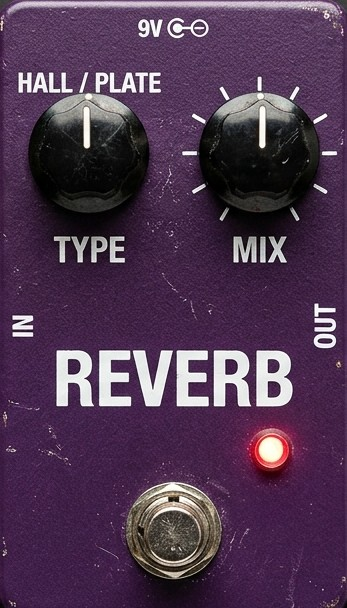
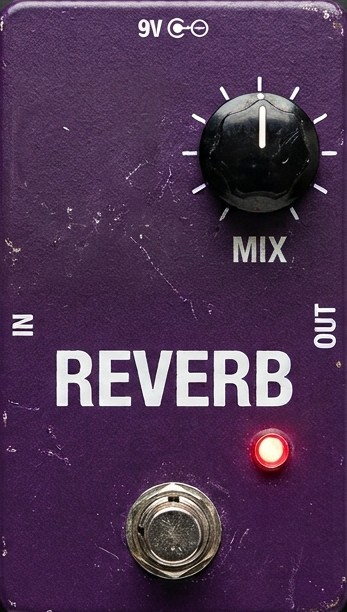
Photo skins: room for values + sliders; reverb without the Type knob
- Reverb image re-generated (Gemini edit): Type knob and HALL/PLATE print removed, blank
  band between MIX and REVERB; mirrored "IN" fixed again in post. Type select now sits in
  the blank upper-left, Mix value + slider in the band.
- DS-1 image re-generated from a to-scale layout sketch: taller knob section with a blank
  band under the labels; values + sliders placed there in knob columns.
- Sliders are visible again on photo skins (knobs still turn by dragging too).

Claude-Session: https://claude.ai/code/session_01CWvZQgQQYmGZwEkUDMEGhG

diff --git a/style.css b/style.css
@@ -1573,7 +1573,7 @@ input[type="range"]:focus-visible { outline: 2px solid var(--brass); outline-off
 .photo-skin .knob-row > * { position: absolute; z-index: 2; }
 /* Knobs: the photo's own knob, cut from the skin image (centre --kx/--ky in px, diameter
    --kd) and rotated by the value, so the printed pointer is the live one. Turned by dragging
-   (buildParamRow); the range input stays for keyboard use but is visually hidden. */
+   (buildParamRow) or with the slider, which sits in a blank band the photo leaves for it. */
 .photo-skin .knob-dial-wrap {
   left: var(--kx); top: var(--ky); width: var(--kd); height: var(--kd); zoom: 1;
   transform: translate(-50%, -50%); cursor: ns-resize; touch-action: none;
@@ -1585,8 +1585,7 @@ input[type="range"]:focus-visible { outline: 2px solid var(--brass); outline-off
 }
 .pedal-stompbox.photo-skin .knob-dial::after,
 .photo-skin .knob-pointer { display: none; }
-.photo-skin .knob-row > input[type="range"] { left: 0; top: 0; width: 1px; height: 1px; opacity: 0; pointer-events: none; }
-.photo-skin .knob-row:has(> input:focus-visible) .knob-dial { outline: 2px solid var(--brass); outline-offset: 2px; }
+.photo-skin .knob-row > input[type="range"] { transform: translateY(-50%); margin: 0; }
 .photo-skin .knob-row > label { width: auto; transform: translateX(-50%); font-size: 0; }
 .photo-skin .knob-row .knob-value { font-size: 11px; }
 .photo-skin .pedal-select { padding: 1px 3px; font-size: 10px; font-weight: 700; text-transform: uppercase; }
@@ -1617,31 +1616,33 @@ input[type="range"]:focus-visible { outline: 2px solid var(--brass); outline-off
   box-shadow: inset 0 1px 2px rgba(0, 0, 0, 0.7);
 }
 
-/* Reverb (img/reverb.jpg, 347x608): Type covers the printed "HALL / PLATE" (the app has 4 types) */
+/* Reverb (img/reverb.jpg, 347x612): Type select sits in the blank upper-left; Mix value and
+   slider in the blank band between the MIX print and REVERB. */
 .photo-skin[data-pedal-type="reverb"] {
-  --fs-x: calc(49.9% - 28px); --fs-y: calc(87.2% - 28px); --fs-w: 56px; --fs-h: 56px;
-  --led-x: 77.5%; --led-y: 73.8%; --led-d: 20px;
+  --fs-x: calc(50.1% - 28px); --fs-y: calc(86.6% - 28px); --fs-w: 56px; --fs-h: 56px;
+  --led-x: 77.5%; --led-y: 73.5%; --led-d: 20px;
 }
 .photo-skin[data-pedal-type="reverb"] .pedal-select {
-  left: 4%; top: 11.4%; width: 44%;
+  left: 7%; top: calc(24% - 9px); width: 41%;
   background: oklch(16% 0.04 310); color: oklch(96% 0.01 310); border: 1px solid oklch(8% 0.02 310);
 }
-.photo-skin[data-pedal-type="reverb"] .knob-row { --kx: 148.8px; --ky: 88.3px; --kd: 60px; }
-.photo-skin[data-pedal-type="reverb"] .knob-row > label { left: 74.6%; top: 44%; }
+.photo-skin[data-pedal-type="reverb"] .knob-row { --kx: 149.3px; --ky: 84.7px; --kd: 60px; }
+.photo-skin[data-pedal-type="reverb"] .knob-row > label { left: 74.6%; top: 44.5%; }
+.photo-skin[data-pedal-type="reverb"] input[type="range"] { left: 56%; top: 50.5%; width: 34%; }
 
-/* DS-1 (img/ds1.webp, 400x718): params are Dist, Tone, Level (rows 1-3). Bypass is the whole
-   rubber treadle, as on the real Boss compact enclosure. */
+/* DS-1 (img/ds1.webp, 400x935): params are Dist, Tone, Level (rows 1-3). Values and sliders
+   in the blank band under the knob labels. Bypass is the whole rubber treadle, as on the
+   real Boss compact enclosure. */
 .photo-skin[data-pedal-type="ds1"] {
-  --fs-x: 4.5%; --fs-y: 63.6%; --fs-w: 91.8%; --fs-h: 33.1%; --fs-r: 5px;
-  --led-x: 50.2%; --led-y: 6%; --led-d: 11px;
-  --grip-y: 42.5%; --plate-y: 42%; /* blank band between INPUT/OUTPUT and the model name */
+  --fs-x: 4.5%; --fs-y: 70.6%; --fs-w: 91.8%; --fs-h: 27.3%; --fs-r: 5px;
+  --led-x: 50.5%; --led-y: 4.7%; --led-d: 11px;
+  --grip-y: 42%; --plate-y: 41.5%;
 }
-.photo-skin[data-pedal-type="ds1"] .knob-row:nth-child(1) { --kx: 147px; --ky: 42px; --kd: 56px; }
-.photo-skin[data-pedal-type="ds1"] .knob-row:nth-child(2) { --kx: 52px; --ky: 42px; --kd: 56px; }
-.photo-skin[data-pedal-type="ds1"] .knob-row:nth-child(3) { --kx: 100px; --ky: 78px; --kd: 42px; }
-.photo-skin[data-pedal-type="ds1"] .knob-row:nth-child(1) > label { left: 73.5%; top: 28.6%; }
-.photo-skin[data-pedal-type="ds1"] .knob-row:nth-child(2) > label { left: 26%; top: 28.6%; }
-.photo-skin[data-pedal-type="ds1"] .knob-row:nth-child(3) > label { left: 50%; top: 28.6%; }
+.photo-skin[data-pedal-type="ds1"] .knob-row:nth-child(1) { --kx: 145px; --ky: 39px; --kd: 54px; --col: 76%; }
+.photo-skin[data-pedal-type="ds1"] .knob-row:nth-child(2) { --kx: 50px; --ky: 39px; --kd: 54px; --col: 24%; }
+.photo-skin[data-pedal-type="ds1"] .knob-row:nth-child(3) { --kx: 100px; --ky: 84px; --kd: 41px; --col: 50%; }
+.photo-skin[data-pedal-type="ds1"] .knob-row > label { left: var(--col); top: 30.5%; }
+.photo-skin[data-pedal-type="ds1"] .knob-row > input[type="range"] { left: calc(var(--col) - 10%); top: 35.5%; width: 20%; }
 .photo-skin[data-pedal-type="ds1"] .knob-row .knob-value { color: oklch(15% 0.02 50); border-bottom-color: oklch(15% 0.02 50 / 0.5); }
 
 /* Quick Stomp scene slots */

diff --git a/js/pedal-registry.js b/js/pedal-registry.js
@@ -268,7 +268,7 @@ export const PEDAL_TYPES = [
   },
   {
     id: 'ds1', label: 'DS-1', category: 'drive', color: 'oklch(70% 0.18 50)', brand: 'boss', brandLabel: 'BOSS',
-    skin: { src: 'img/ds1.webp', aspect: '400 / 718' },
+    skin: { src: 'img/ds1.webp?v=2', aspect: '400 / 935' },
     blurb: 'A hard, asymmetric shunt-clip with an asymmetric booster feeding it — the Boss DS-1.',
     about: 'Modeled on the Boss DS-1: diodes shunt the signal to AC ground for a hard-clipping character, fed by an asymmetric booster stage. Only 3 knobs (Dist/Tone/Level), matching the real pedal — no separate Mid control.',
     createNodes(ctx) {
@@ -872,7 +872,7 @@ export const PEDAL_TYPES = [
   },
   {
     id: 'reverb', label: 'Reverb', category: 'time', color: 'oklch(45% 0.13 320)',
-    skin: { src: 'img/reverb.jpg', aspect: '347 / 608' },
+    skin: { src: 'img/reverb.jpg?v=2', aspect: '347 / 612' },
     blurb: 'Simulates the natural echo of a room, hall, or spring tank — adds space and depth.',
     about: 'Reverb simulates the reflections of a physical space, from a tight practice room to a huge hall to a classic spring tank. It doesn\'t repeat like delay — instead it blurs into a smooth wash that gives your tone a sense of size and depth.',
     async createNodes(ctx) {

diff --git a/test-layout.html b/test-layout.html
@@ -15,9 +15,9 @@
     const w = frame.contentWindow;
     const ampId = location.search.includes('acoustic') ? 'acoustic' : 'clean';
     await w.eval(`(async () => {
-      const ui = await import('/js/ui.js?v=12');
-      const pr = await import('/js/pedal-registry.js?v=6');
-      const ar = await import('/js/amp-registry.js?v=10');
+      const ui = await import('/js/ui.js?v=13');
+      const pr = await import('/js/pedal-registry.js?v=7');
+      const ar = await import('/js/amp-registry.js?v=11');
       const mk = (id, getter, kind) => {
         const typeDef = getter(id);
         const params = {}; typeDef.params.forEach((p) => { params[p.key] = p.default; });

diff --git a/js/main.js b/js/main.js
@@ -1,5 +1,5 @@
-import { AudioEngine } from './audio-engine.js?v=22';
-import { renderChain, renderAmp, showAddMenu, showDemoMenu, showSavePresetPopover, showPresetMenu, showInfoPopover, drawScope, drawWaveform, drawStaticWave } from './ui.js?v=12';
+import { AudioEngine } from './audio-engine.js?v=23';
+import { renderChain, renderAmp, showAddMenu, showDemoMenu, showSavePresetPopover, showPresetMenu, showInfoPopover, drawScope, drawWaveform, drawStaticWave } from './ui.js?v=13';
 import { renderPreviewWaveform } from './wave-preview.js';
 import { DEMO_PRESETS } from './demo-presets.js?v=2';
 import { Tuner, GUITAR_STRINGS, centsFromTarget } from './tuner.js?v=3';

diff --git a/index.html b/index.html
@@ -4,7 +4,7 @@
 <meta charset="utf-8">
 <title>Guitar FX Pedalboard</title>
 <meta name="viewport" content="width=device-width, initial-scale=1">
-<link rel="stylesheet" href="style.css?v=43">
+<link rel="stylesheet" href="style.css?v=45">
 <script>
   (function () {
     var root = document.documentElement;
@@ -550,6 +550,6 @@
   </div>
 </template>
 
-<script type="module" src="js/main.js?v=48"></script>
+<script type="module" src="js/main.js?v=49"></script>
 </body>
 </html>

diff --git a/js/audio-engine.js b/js/audio-engine.js
@@ -1,5 +1,5 @@
-import { getPedalType } from './pedal-registry.js?v=6';
-import { getAmpType } from './amp-registry.js?v=10';
+import { getPedalType } from './pedal-registry.js?v=7';
+import { getAmpType } from './amp-registry.js?v=11';
 
 // Keep in sync with WORKLET_MODULES in wave-preview.js (same URLs, so both share one HTTP cache entry).
 const WORKLET_URLS = [

diff --git a/js/ui.js b/js/ui.js
@@ -1,5 +1,5 @@
-import { PEDAL_TYPES, CATEGORIES } from './pedal-registry.js?v=6';
-import { AMP_TYPES } from './amp-registry.js?v=10';
+import { PEDAL_TYPES, CATEGORIES } from './pedal-registry.js?v=7';
+import { AMP_TYPES } from './amp-registry.js?v=11';
 
 function stepFor(param) {
   if (param.step !== undefined) return param.step;

diff --git a/js/amp-registry.js b/js/amp-registry.js
@@ -1,5 +1,5 @@
 import { generateCabIR, generateAcousticBodyIR } from './ir-synth.js?v=4';
-import { driveCurve } from './pedal-registry.js?v=6';
+import { driveCurve } from './pedal-registry.js?v=7';
 
 function makeBand(ctx, band) {
   const f = ctx.createBiquadFilter();
